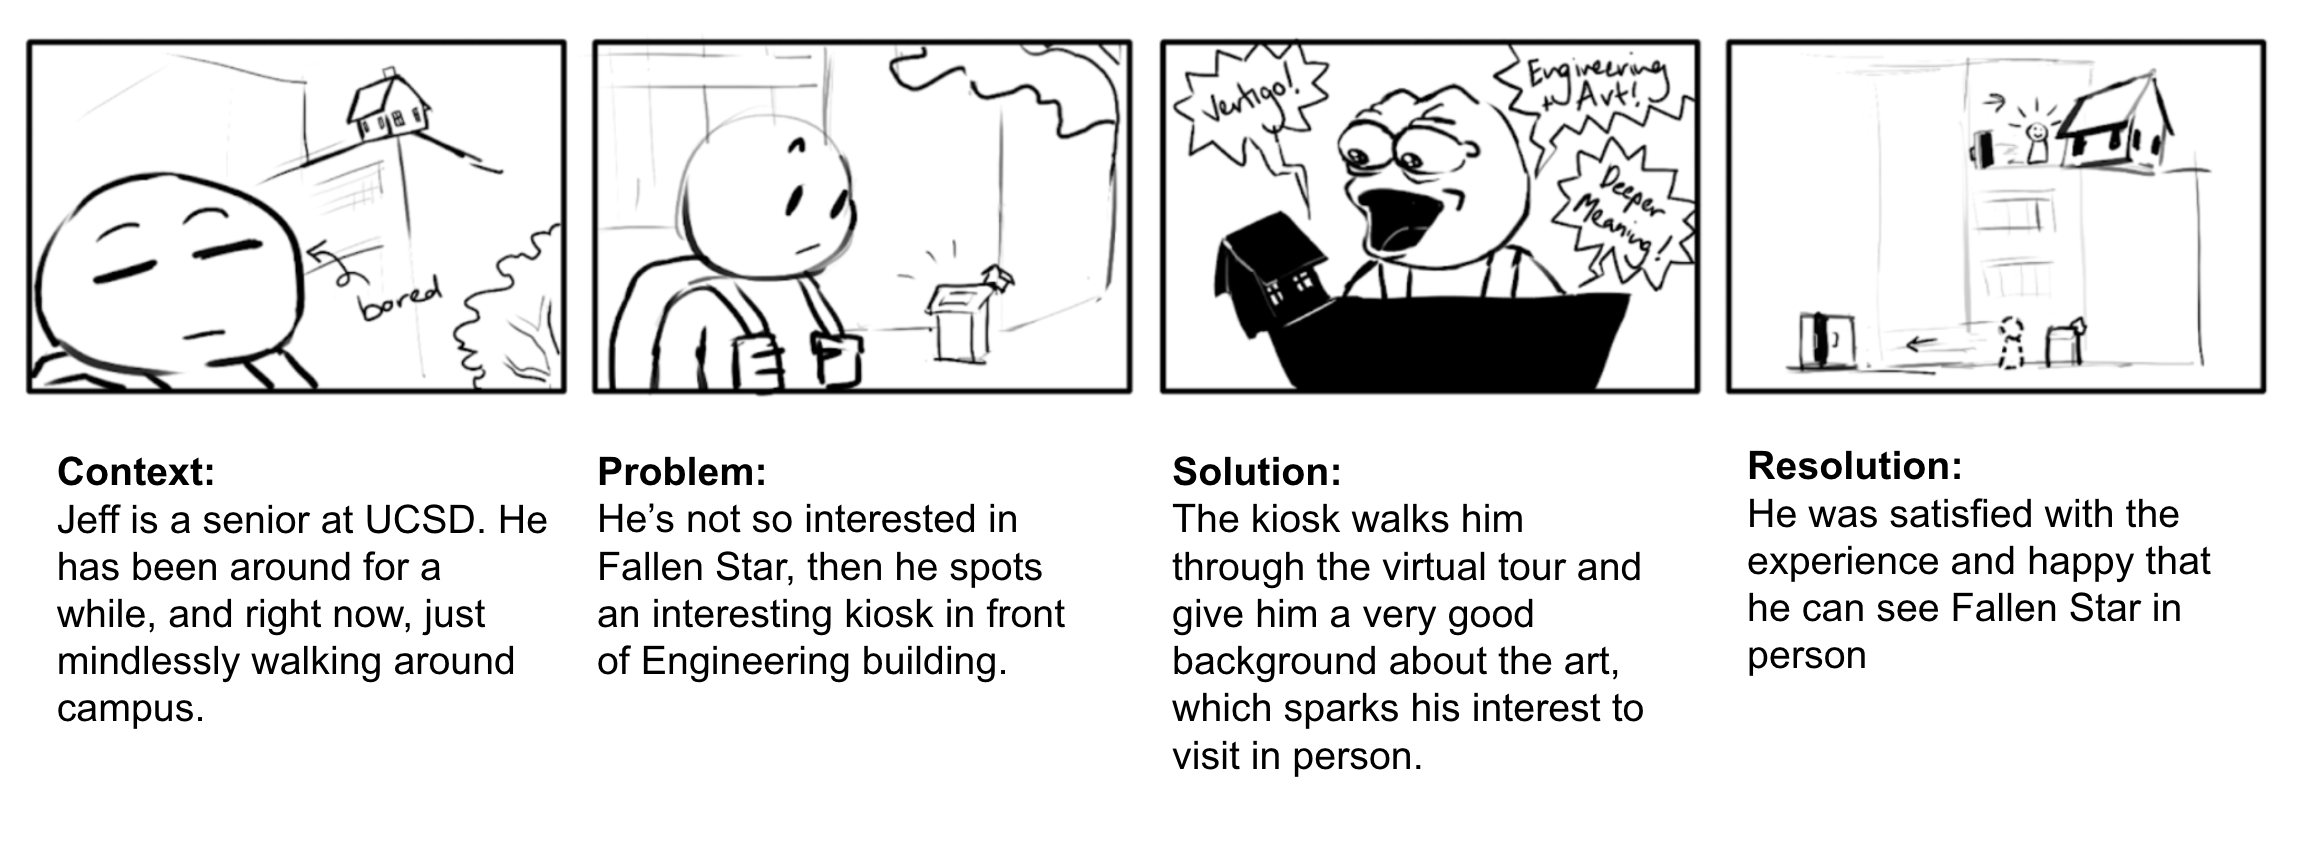
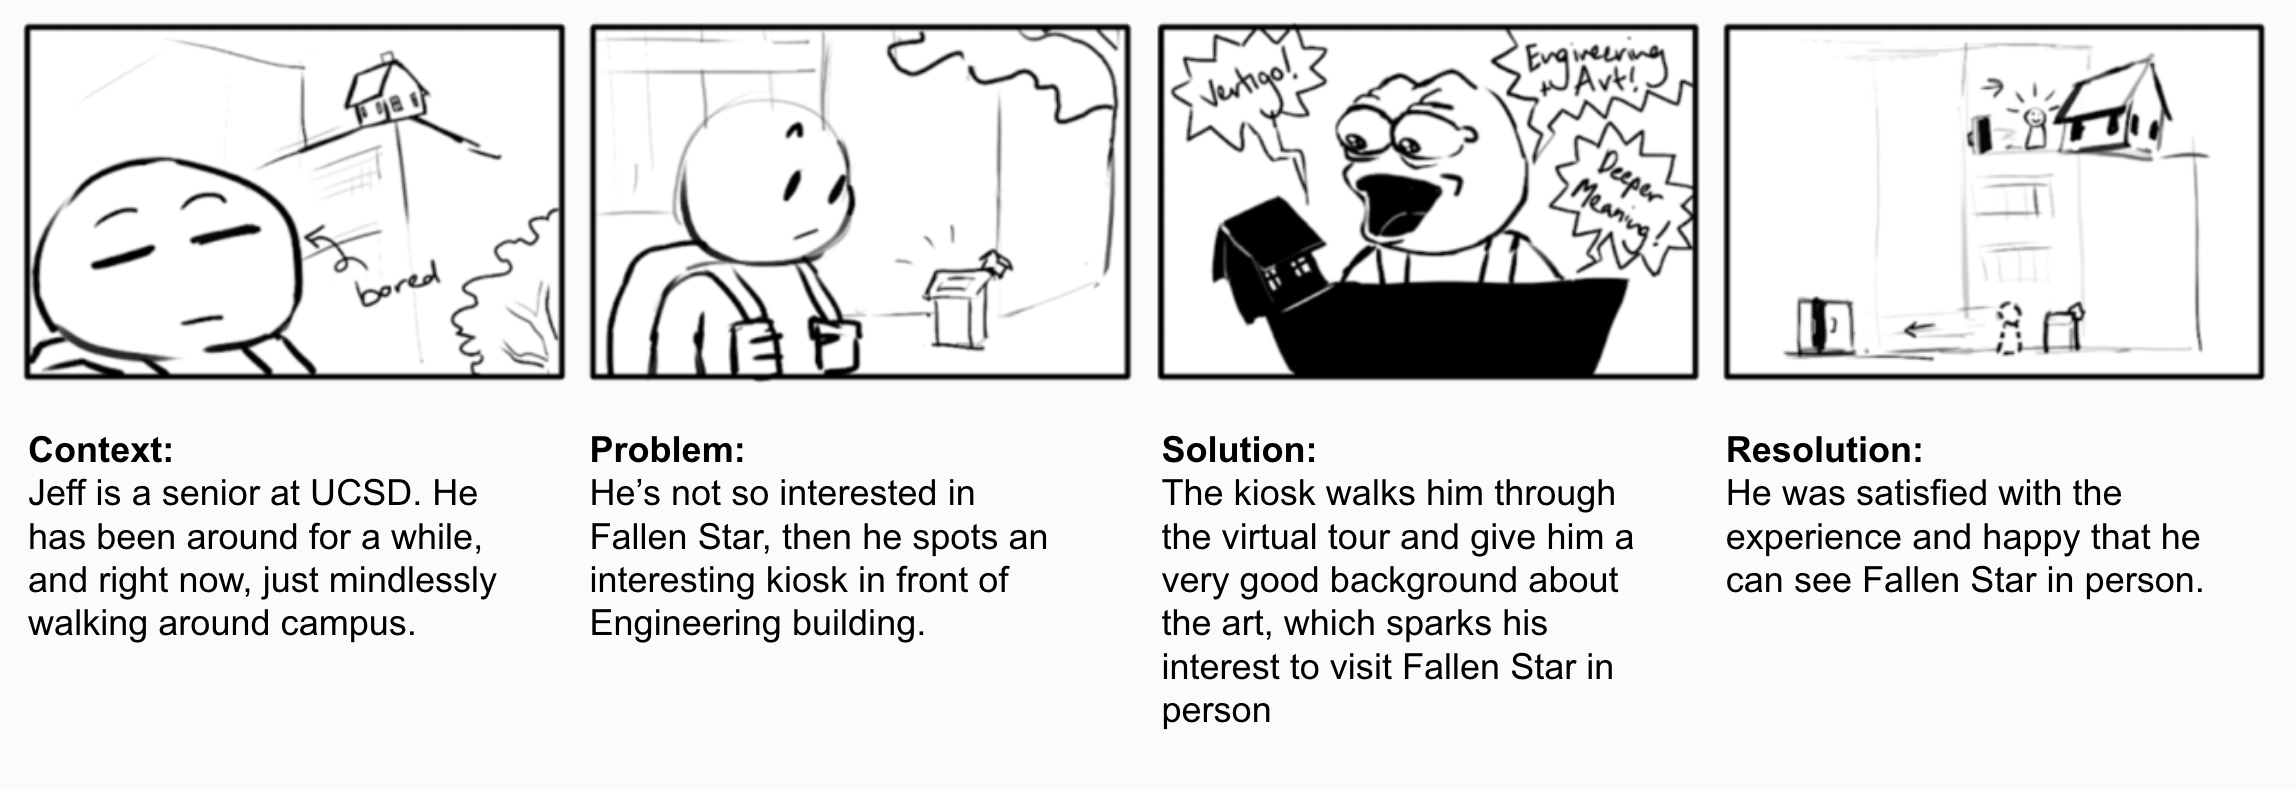
change image background color

diff --git a/kiosk.html b/kiosk.html
@@ -186,7 +186,7 @@
 
                 <h1>Ideation</h1>
                 <h2>Scenarios/Storyboard Sketches</h2>
-                <img style="width: 90%" src="images\kiosk_images\story_2.jpg">
+                <img style="width: 90%" src="images\kiosk_images\story_2.png">
                 <img style="width: 100%" src="images/kiosk_images/story_1.png">
 
                 <!-- Interview Insights -->
